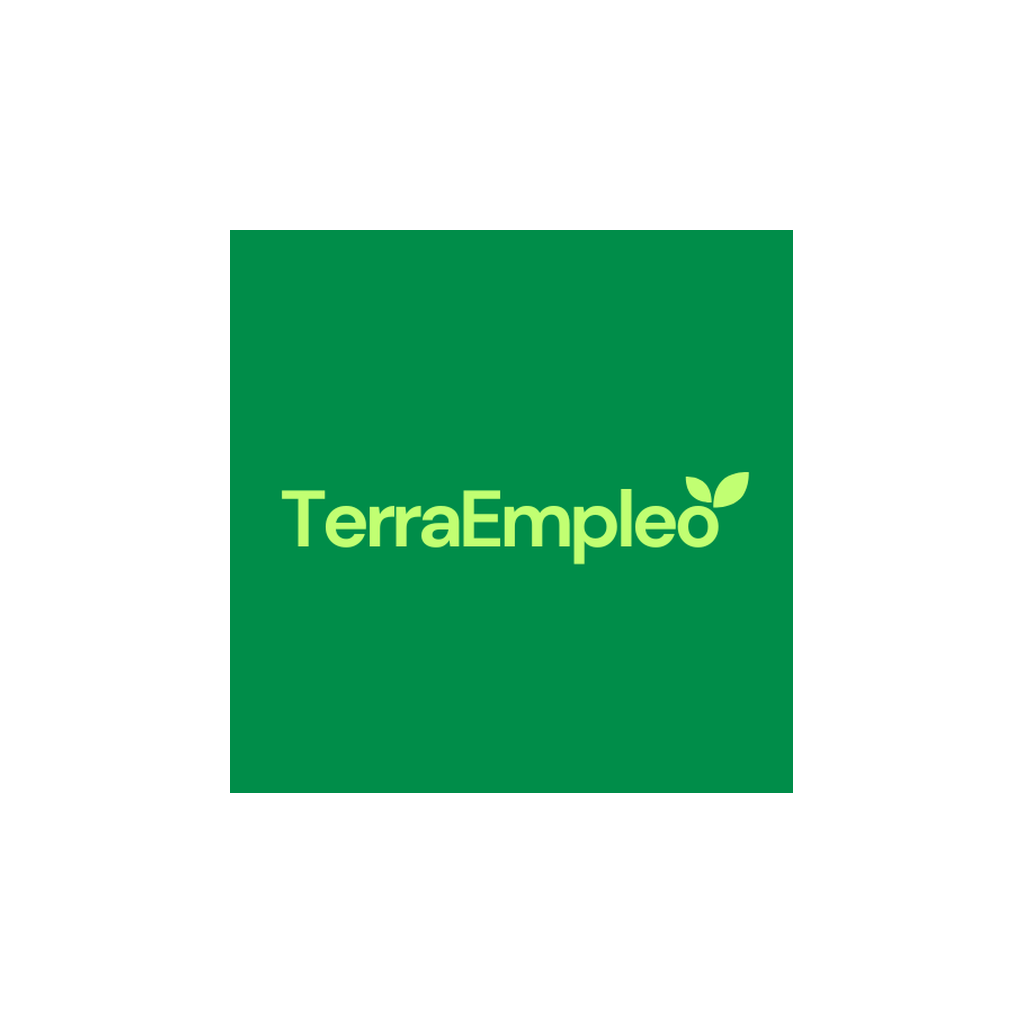
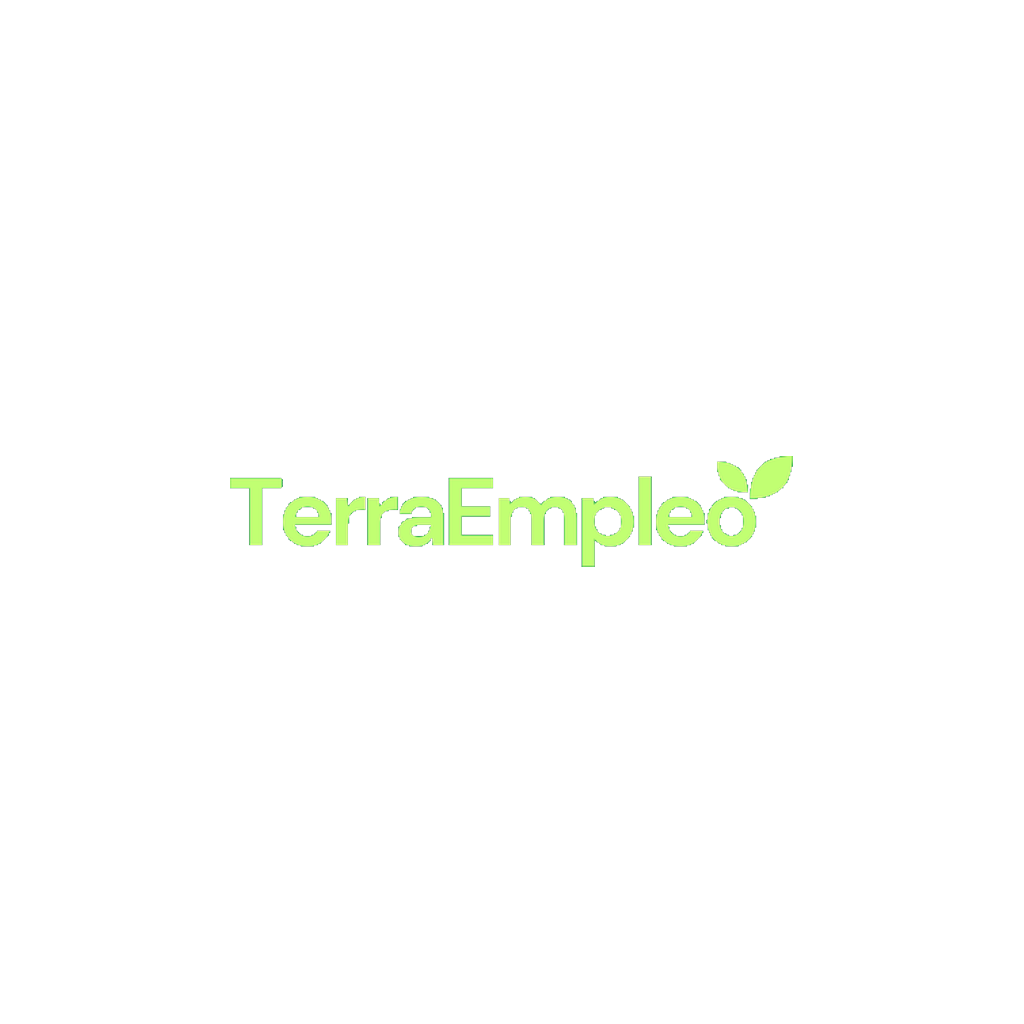
solucion de front

Changed region(s): [[0.2188, 0.2188, 0.7812, 0.7812]]

diff --git a/TerraEmpleoApp/src/components/ui/PickerModal.js b/TerraEmpleoApp/src/components/ui/PickerModal.js
@@ -1,5 +1,5 @@
 import React from 'react';
-import { View, Text, Modal, TouchableOpacity, FlatList, StyleSheet } from 'react-native';
+import { View, Text, Modal, TouchableOpacity, FlatList, StyleSheet, KeyboardAvoidingView, Platform } from 'react-native';
 import { SafeAreaView } from 'react-native-safe-area-context';
 import { Ionicons } from '@expo/vector-icons';
 import { COLORS, SPACING, RADIUS, SHADOWS, FONTS } from '../../theme';
@@ -32,55 +32,61 @@ export default function PickerModal({
 
   return (
     <Modal visible={visible} animationType="slide" transparent>
-      <SafeAreaView style={styles.overlay}>
-        <View style={styles.content}>
-          <View style={styles.header}>
-            <Text style={styles.title}>{title}</Text>
-            <TouchableOpacity onPress={() => { onClose(); setSearch(''); }}>
-              <Ionicons name="close-circle" size={30} color={COLORS.textLight} />
-            </TouchableOpacity>
-          </View>
+      <KeyboardAvoidingView
+        style={{ flex: 1 }}
+        behavior={Platform.OS === 'ios' ? 'padding' : undefined}
+      >
+        <SafeAreaView style={styles.overlay}>
+          <View style={styles.content}>
+            <View style={styles.header}>
+              <Text style={styles.title}>{title}</Text>
+              <TouchableOpacity onPress={() => { onClose(); setSearch(''); }}>
+                <Ionicons name="close-circle" size={30} color={COLORS.textLight} />
+              </TouchableOpacity>
+            </View>
 
-          {searchable && (
-            <Input
-              placeholder="Buscar..."
-              value={search}
-              onChangeText={setSearch}
-              icon="search"
-              style={{ marginBottom: SPACING.sm }}
-            />
-          )}
-
-          <FlatList
-            data={filtered}
-            keyExtractor={(item, idx) => (typeof item === 'string' ? item : item.value) + idx}
-            renderItem={({ item }) => {
-              const label = typeof item === 'string' ? item : item.label;
-              const value = typeof item === 'string' ? item : item.value;
-              const isSelected = value === selectedValue;
-
-              return (
-                <TouchableOpacity
-                  style={[styles.option, isSelected && styles.optionSelected]}
-                  onPress={() => handleSelect(item)}
-                  activeOpacity={0.7}
-                >
-                  <Text style={[styles.optionText, isSelected && styles.optionTextSelected]}>
-                    {label}
-                  </Text>
-                  {isSelected && (
-                    <Ionicons name="checkmark-circle" size={22} color={COLORS.primary} />
-                  )}
-                </TouchableOpacity>
-              );
-            }}
-            ItemSeparatorComponent={() => <View style={styles.separator} />}
-            ListEmptyComponent={() => (
-              <Text style={styles.empty}>No se encontraron resultados</Text>
+            {searchable && (
+              <Input
+                placeholder="Buscar..."
+                value={search}
+                onChangeText={setSearch}
+                icon="search"
+                style={{ marginBottom: SPACING.sm }}
+              />
             )}
-          />
-        </View>
-      </SafeAreaView>
+
+            <FlatList
+              data={filtered}
+              keyExtractor={(item, idx) => (typeof item === 'string' ? item : item.value) + idx}
+              keyboardShouldPersistTaps="handled"
+              renderItem={({ item }) => {
+                const label = typeof item === 'string' ? item : item.label;
+                const value = typeof item === 'string' ? item : item.value;
+                const isSelected = value === selectedValue;
+
+                return (
+                  <TouchableOpacity
+                    style={[styles.option, isSelected && styles.optionSelected]}
+                    onPress={() => handleSelect(item)}
+                    activeOpacity={0.7}
+                  >
+                    <Text style={[styles.optionText, isSelected && styles.optionTextSelected]}>
+                      {label}
+                    </Text>
+                    {isSelected && (
+                      <Ionicons name="checkmark-circle" size={22} color={COLORS.primary} />
+                    )}
+                  </TouchableOpacity>
+                );
+              }}
+              ItemSeparatorComponent={() => <View style={styles.separator} />}
+              ListEmptyComponent={() => (
+                <Text style={styles.empty}>No se encontraron resultados</Text>
+              )}
+            />
+          </View>
+        </SafeAreaView>
+      </KeyboardAvoidingView>
     </Modal>
   );
 }

diff --git a/TerraEmpleoApp/src/screens/auth/RegisterEmpleadorScreen.js b/TerraEmpleoApp/src/screens/auth/RegisterEmpleadorScreen.js
@@ -149,12 +149,18 @@ export default function RegisterEmpleadorScreen({ navigation }) {
 
   const enviarCodigo = async () => {
     try {
+      setLoading(true);
       const res = await authAPI.enviarSMS(celular);
       setCodigoEnviado(true);
-      setCodigoDebug(res.data.codigo_debug);
-      Alert.alert('Código enviado', `Se envió un código de verificación a ${celular}\n\n(Debug: ${res.data.codigo_debug})`);
+      const debugCode = res.data?.codigo_debug || res.codigo_debug;
+      setCodigoDebug(debugCode);
+      Alert.alert('Código enviado', `Se envió un código de verificación a ${celular}${debugCode ? `\n\n(Debug: ${debugCode})` : ''}`);
     } catch (err) {
-      Alert.alert('Error', 'No se pudo enviar el código');
+      const msg = err.response?.data?.error || err.message || 'No se pudo enviar el código';
+      console.log('[SMS Error]', err.response?.status, err.response?.data, err.message);
+      Alert.alert('Error', msg);
+    } finally {
+      setLoading(false);
     }
   };
 
@@ -767,12 +773,12 @@ export default function RegisterEmpleadorScreen({ navigation }) {
 
           <View style={styles.footerInScroll}>
             <View style={styles.footer}>
-              {step > 1 && <Button title="Anterior" onPress={prevStep} variant="outline" size="medium" style={{ flex: 1 }} />}
+              {step > 1 && <Button title="Anterior" onPress={prevStep} variant="outline" size="medium" fullWidth={false} style={{ flex: 1 }} />}
               {step < TOTAL_STEPS ? (
                 <Button title="Siguiente" onPress={nextStep} size="medium" loading={loading}
-                  style={{ flex: step > 1 ? 1 : undefined, width: step === 1 ? '100%' : undefined }} />
+                  fullWidth={step > 1 ? false : true} style={step > 1 ? { flex: 1 } : undefined} />
               ) : (
-                <Button title="Finalizar Registro" onPress={handleRegister} loading={loading} size="large" style={{ flex: 1 }} />
+                <Button title="Finalizar Registro" onPress={handleRegister} loading={loading} size="large" fullWidth={false} style={{ flex: 1 }} />
               )}
             </View>
             <TerraFooter />

diff --git a/TerraEmpleoApp/src/screens/auth/RegisterTrabajadorScreen.js b/TerraEmpleoApp/src/screens/auth/RegisterTrabajadorScreen.js
@@ -144,12 +144,18 @@ export default function RegisterTrabajadorScreen({ navigation }) {
 
   const enviarCodigo = async () => {
     try {
+      setLoading(true);
       const res = await authAPI.enviarSMS(celular);
       setCodigoEnviado(true);
-      setCodigoDebug(res.data.codigo_debug);
-      Alert.alert('Código enviado', `Se envió un código de verificación a ${celular}\n\n(Debug: ${res.data.codigo_debug})`);
+      const debugCode = res.data?.codigo_debug || res.codigo_debug;
+      setCodigoDebug(debugCode);
+      Alert.alert('Código enviado', `Se envió un código de verificación a ${celular}${debugCode ? `\n\n(Debug: ${debugCode})` : ''}`);
     } catch (err) {
-      Alert.alert('Error', 'No se pudo enviar el código');
+      const msg = err.response?.data?.error || err.message || 'No se pudo enviar el código';
+      console.log('[SMS Error]', err.response?.status, err.response?.data, err.message);
+      Alert.alert('Error', msg);
+    } finally {
+      setLoading(false);
     }
   };
 
@@ -753,14 +759,14 @@ export default function RegisterTrabajadorScreen({ navigation }) {
           <View style={styles.footerInScroll}>
             <View style={styles.footer}>
               {step > 1 && (
-                <Button title="Anterior" onPress={prevStep} variant="outline" size="medium" style={{ flex: 1 }} />
+                <Button title="Anterior" onPress={prevStep} variant="outline" size="medium" fullWidth={false} style={{ flex: 1 }} />
               )}
               {step < TOTAL_STEPS ? (
                 <Button title="Siguiente" onPress={nextStep} size="medium" loading={loading}
-                  style={{ flex: step > 1 ? 1 : undefined, width: step === 1 ? '100%' : undefined }} />
+                  fullWidth={step > 1 ? false : true} style={step > 1 ? { flex: 1 } : undefined} />
               ) : (
                 <Button title="Finalizar Registro" onPress={handleRegister} loading={loading}
-                  size="large" style={{ flex: 1 }} />
+                  size="large" fullWidth={false} style={{ flex: 1 }} />
               )}
             </View>
             <TerraFooter />

diff --git a/TerraEmpleoApp/src/components/ui/Button.js b/TerraEmpleoApp/src/components/ui/Button.js
@@ -124,6 +124,7 @@ const styles = StyleSheet.create({
     alignItems: 'center',
     justifyContent: 'center',
     gap: SPACING.sm,
+    flexShrink: 1,
   },
   iconLeft: {
     marginRight: 2,